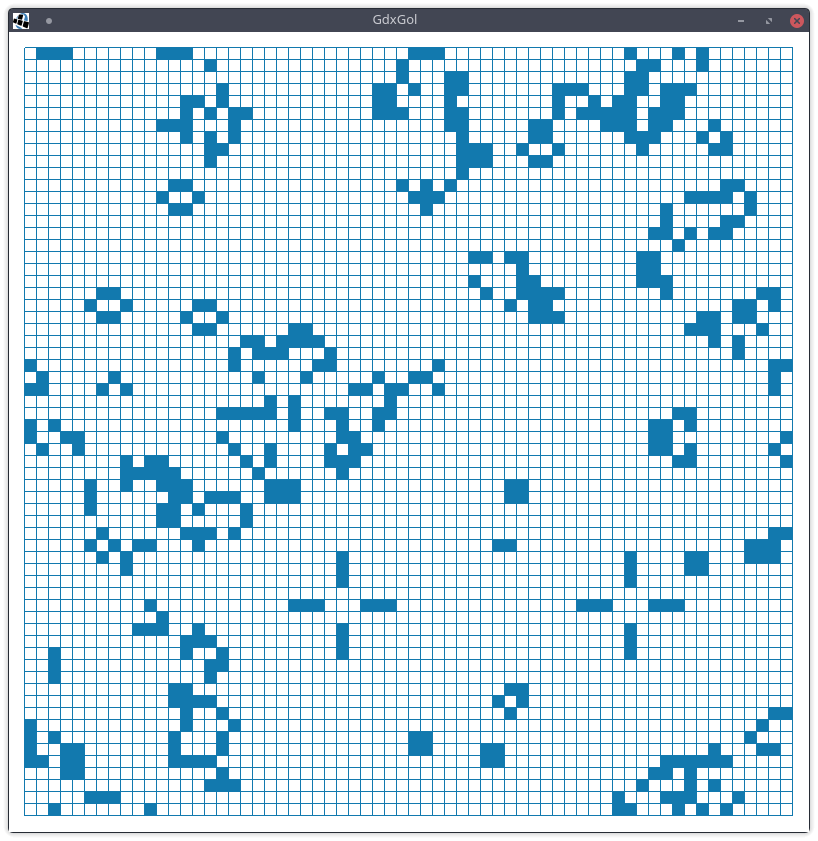
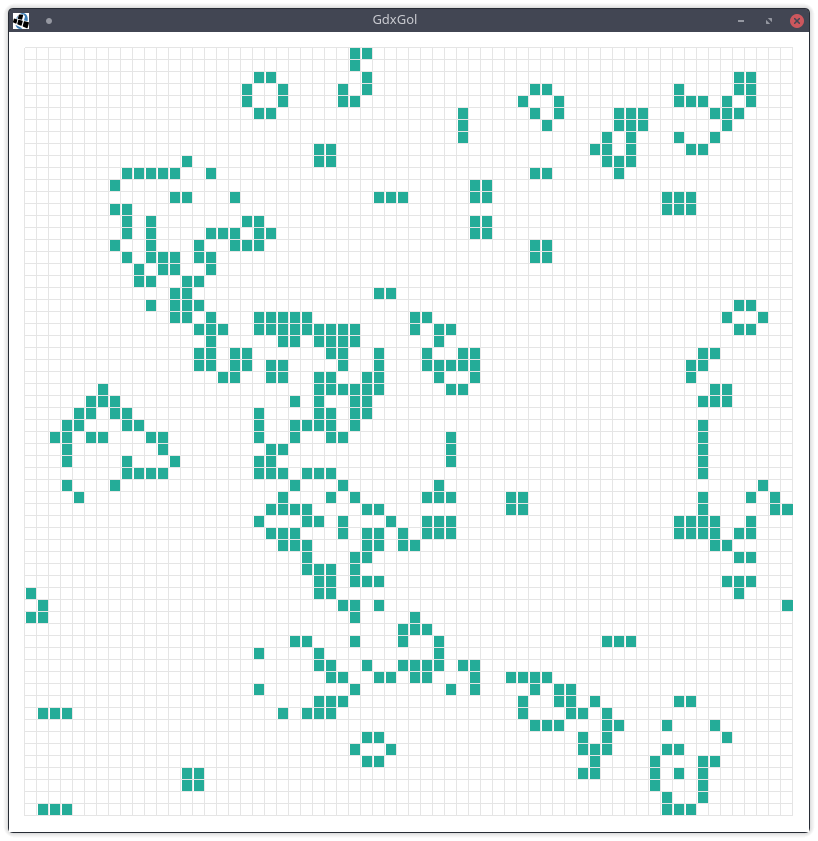
update screenshot

Changed region(s): [[0.0306, 0.0309, 0.978, 0.9893]]

diff --git a/README.md b/README.md
@@ -6,7 +6,7 @@ A simple Game of Life with LibGDX
 
 Interact:
 
-R - randomize
+R - randomize every cell
 
 N - hold to step repeatedly
 
